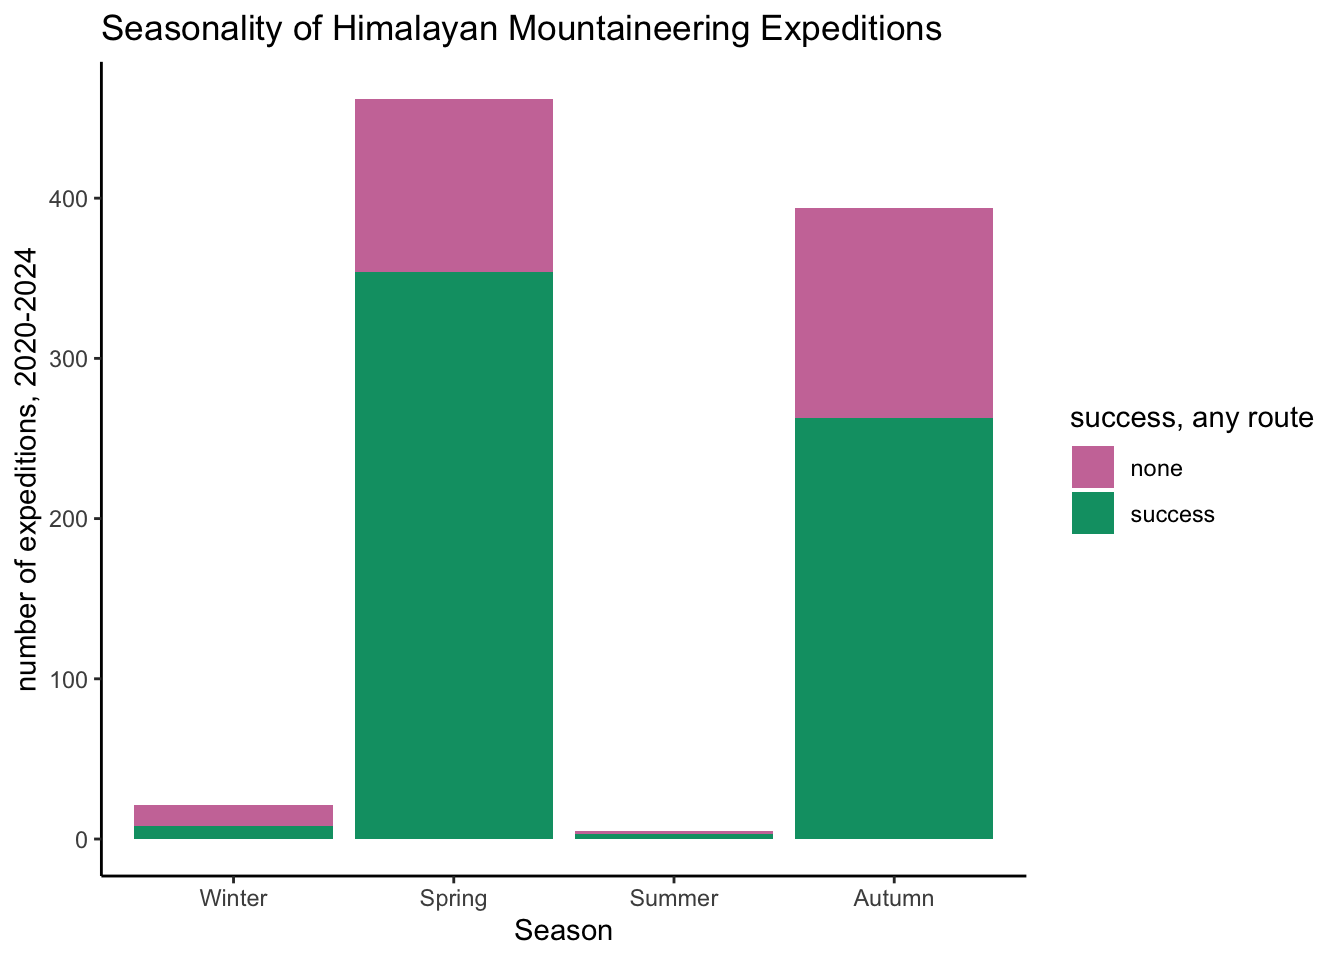
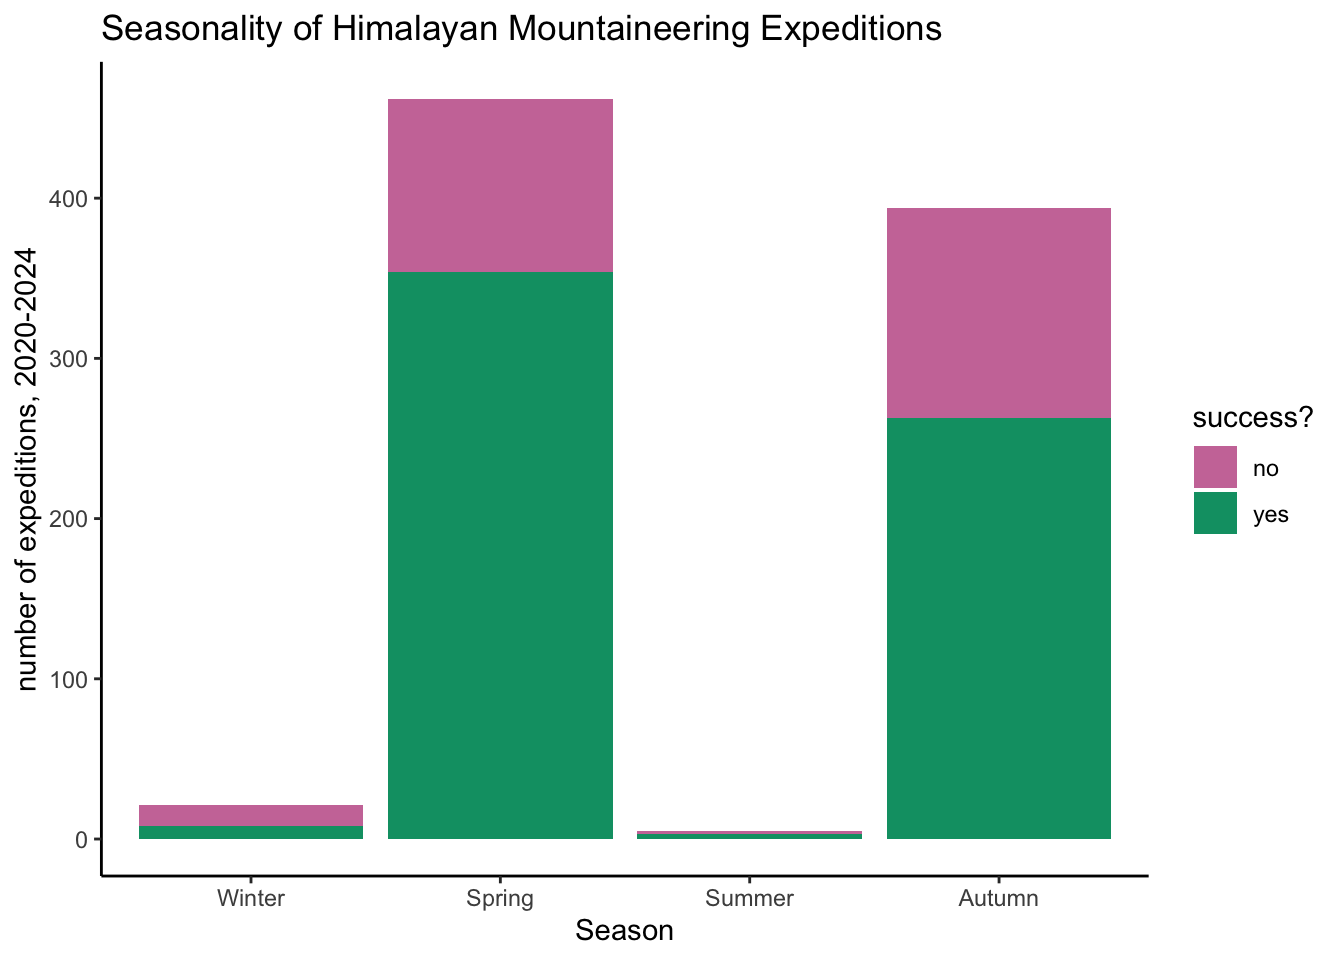
changed label wording

diff --git a/2025-01-21/TidyTuesday_01_21.html b/2025-01-21/TidyTuesday_01_21.html
@@ -118,8 +118,8 @@ pre > code.sourceCode > span > a:first-child::before { text-decoration: underlin
 <span id="cb5-2"><a href="#cb5-2" aria-hidden="true" tabindex="-1"></a>  <span class="fu">ggplot</span>(<span class="fu">aes</span>(<span class="at">x=</span>SEASON_FACTOR,<span class="at">fill=</span>success_any))<span class="sc">+</span></span>
 <span id="cb5-3"><a href="#cb5-3" aria-hidden="true" tabindex="-1"></a>    <span class="fu">geom_bar</span>()<span class="sc">+</span></span>
 <span id="cb5-4"><a href="#cb5-4" aria-hidden="true" tabindex="-1"></a>    <span class="fu">theme_classic</span>()<span class="sc">+</span></span>
-<span id="cb5-5"><a href="#cb5-5" aria-hidden="true" tabindex="-1"></a>    <span class="fu">labs</span>(<span class="at">title=</span><span class="st">"Seasonality of Himalayan Mountaineering Expeditions"</span>, <span class="at">x=</span><span class="st">"Season"</span>, <span class="at">y=</span><span class="st">"number of expeditions, 2020-2024"</span>, <span class="at">fill=</span><span class="st">"success, any route"</span>)<span class="sc">+</span></span>
-<span id="cb5-6"><a href="#cb5-6" aria-hidden="true" tabindex="-1"></a>    <span class="fu">scale_fill_manual</span>(<span class="at">labels =</span> <span class="fu">c</span>(<span class="st">"none"</span>, <span class="st">"success"</span>), <span class="at">values=</span><span class="fu">c</span>(<span class="st">"#CC79A7"</span>, <span class="st">"#009E73"</span>))</span></code><button title="Copy to Clipboard" class="code-copy-button"><i class="bi"></i></button></pre></div>
+<span id="cb5-5"><a href="#cb5-5" aria-hidden="true" tabindex="-1"></a>    <span class="fu">labs</span>(<span class="at">title=</span><span class="st">"Seasonality of Himalayan Mountaineering Expeditions"</span>, <span class="at">x=</span><span class="st">"Season"</span>, <span class="at">y=</span><span class="st">"number of expeditions, 2020-2024"</span>, <span class="at">fill=</span><span class="st">"success?"</span>)<span class="sc">+</span></span>
+<span id="cb5-6"><a href="#cb5-6" aria-hidden="true" tabindex="-1"></a>    <span class="fu">scale_fill_manual</span>(<span class="at">labels =</span> <span class="fu">c</span>(<span class="st">"no"</span>, <span class="st">"yes"</span>), <span class="at">values=</span><span class="fu">c</span>(<span class="st">"#CC79A7"</span>, <span class="st">"#009E73"</span>))</span></code><button title="Copy to Clipboard" class="code-copy-button"><i class="bi"></i></button></pre></div>
 <div class="cell-output-display">
 <div>
 <figure class="figure">
